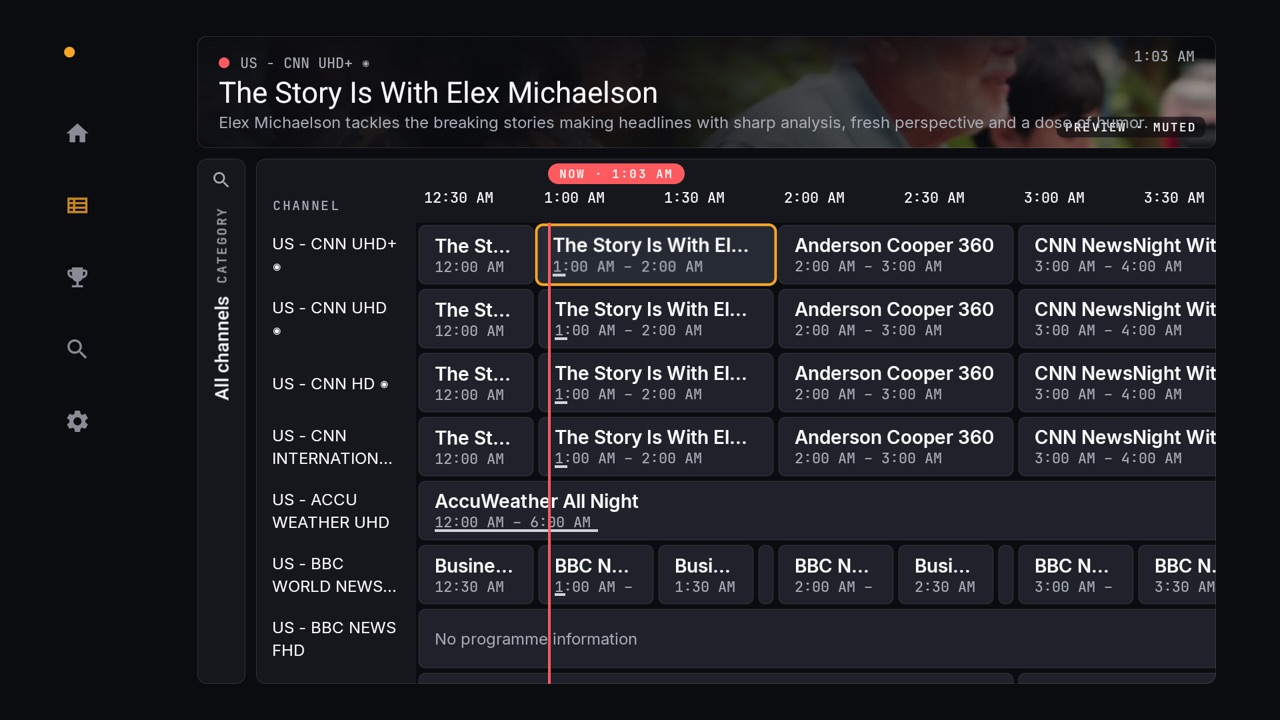
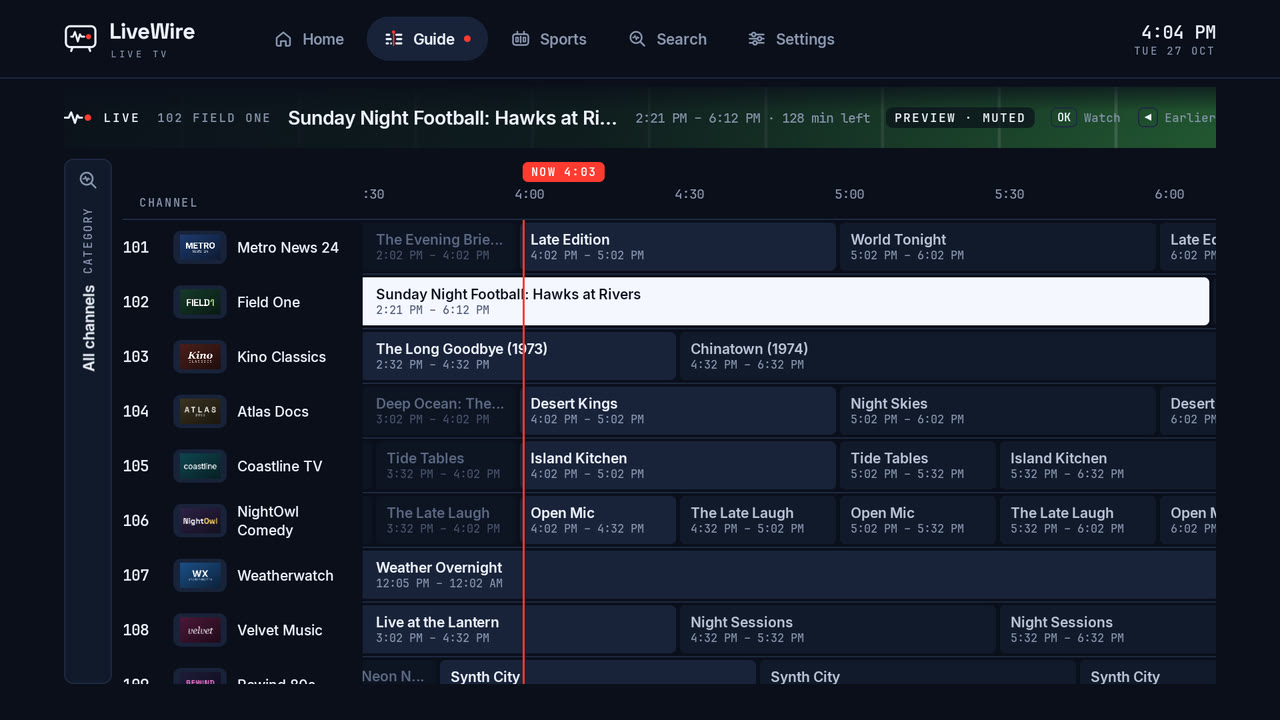
docs(readme): Show and describe the B · Grid design
Replace the five screenshots with B · Grid ones, taken on the emulator
against a made-up demo provider so no real channel logos appear. Rewrite
the Home, Favourites, pinned categories and Settings entries, which
still described the hero band and rails, and add the top bar.

diff --git a/README.md b/README.md
@@ -12,16 +12,27 @@ on the device.
 
 ![Home screen](docs/images/home.jpg)
 
-| Guide | Player options |
+| Guide | Player |
 |---|---|
-| ![Guide](docs/images/guide.jpg) | ![Player options panel](docs/images/player.jpg) |
+| ![Guide](docs/images/guide.jpg) | ![Player info bar](docs/images/player.jpg) |
 | **Sports** | **Settings** |
 | ![Sports scoreboard](docs/images/sports.jpg) | ![Settings](docs/images/settings.jpg) |
 
+The channels and programmes in these screenshots are made up.
+
 ## Features
 
-- **Home.** A hero band shows what's on the focused channel now and next,
-  with rails of channels grouped by your provider's categories.
+- **Top bar.** Home, Guide, Sports, Search and Settings sit in a bar along the
+  top with a clock. Up from the top of any screen reaches the bar, Left and
+  Right move between sections, and OK opens one. Back goes to the bar, then
+  to Home, and exits from Home.
+- **Home.** A large preview of the focused channel sits beside an On now list
+  with each channel's number, logo, programme and time left. After 2 seconds
+  the preview plays the channel muted. Below it are the programme's details,
+  a progress bar and what's up next. A filter above the list switches between
+  Favourites, Recently watched (the last 8 channels you played), your pinned
+  categories and All channels, and Home remembers your last pick. If your
+  provider has a Live Now category, Home opens on it.
 - **Guide.** A programme grid with a red now-line. You can filter it by
   category or keyword, and it keeps your place when you come back from a
   channel. Above the grid, a details band describes the focused programme,
@@ -50,17 +61,16 @@ on the device.
     one-time message says the channel can't rewind.
 - **Favourites.** To add one, hold OK on a channel in Home, the Guide or
   Search and choose Favourite, or use the Favourite row in the player's
-  Options. Favourites appear as a rail at the top of Home, a ★ Favourites
+  Options. Favourites appear in Home's list filter, a ★ Favourites
   filter in the Guide and a group at the top of the player's channel list.
   If you start watching from a favourite, Up and Down in the player move
   through your favourites only. Reorder or remove them under
   Settings → Favourites. They're saved separately for each provider, on the
   device only.
-- **Home.** Rails run Favourites, Recently watched (the last 8 channels you
-  played), then your pinned categories. To pin a category, hold OK on it in
-  the Guide's category column; hold OK again to unpin it. Up to 6 can be
-  pinned, and they show on Home in the order you pinned them. With nothing
-  pinned, Home shows the provider's first 6 categories. Pins are saved
+- **Pinned categories.** To pin a category, hold OK on it in the Guide's
+  category column; hold OK again to unpin it. Up to 6 can be pinned, and they
+  show in Home's list filter in the order you pinned them. With nothing
+  pinned, Home offers the provider's first 6 categories. Pins are saved
   separately for each provider, on the device only.
 - **Search.** Results are grouped into channels, programmes that are on now
   or later, and games. When the field is empty it shows your recent searches
@@ -81,9 +91,9 @@ on the device.
   short note on Home when it does.
   Favourites, pins and recents are saved per provider, so the backup shows its
   own.
-- **Settings.** Stream format (MPEG-TS or HLS), guide window, channel preview,
-  now-playing text on Home cards, favourites, and About with Check for
-  updates.
+- **Settings.** Stream format (MPEG-TS or HLS), guide window, channel preview
+  (Home and the Guide), now-playing text in lists, favourites, providers, and
+  About with Check for updates.
 - **Updates.** LiveWire checks git.namillis.me for a new release once a day
   and offers to install it. It installs an update only if the file's checksum
   matches the release and it's signed with the same key as the installed app.
